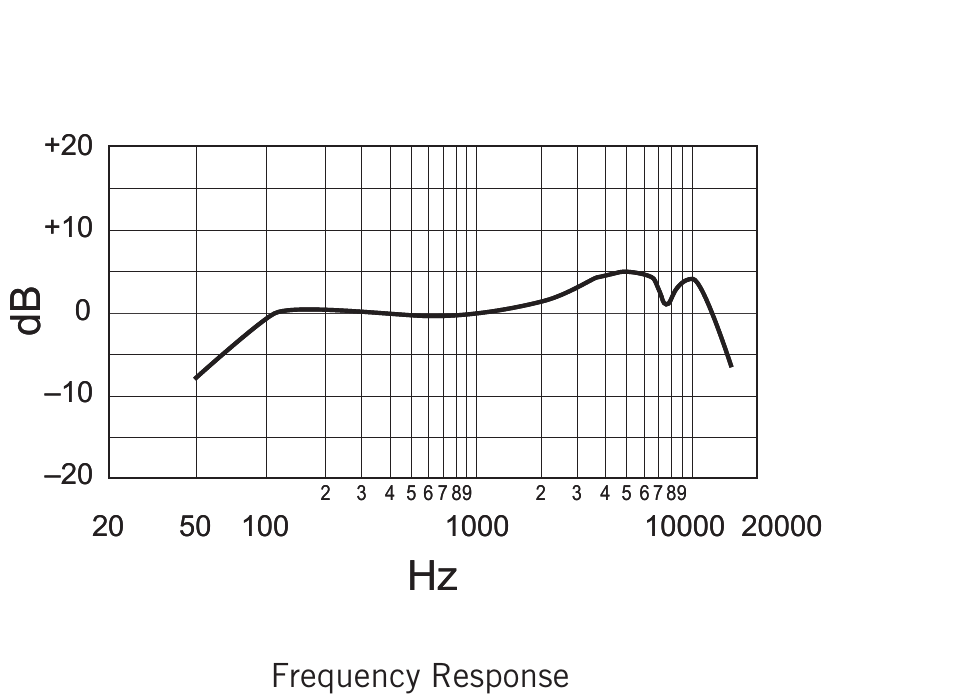
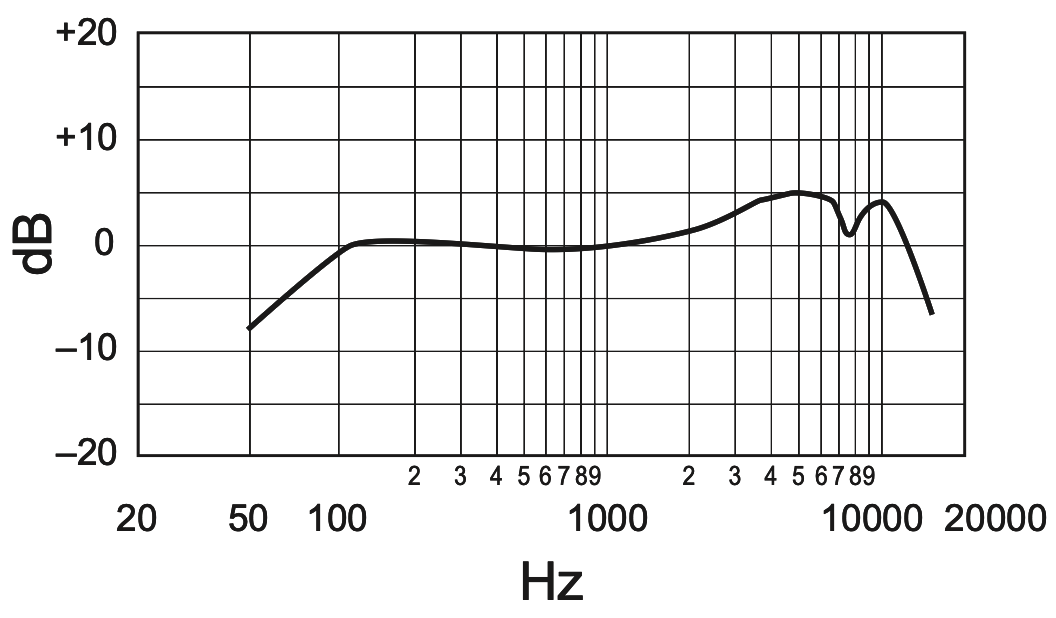
Mon Wk 6 reading section 2.2: swap to Ines's tighter spec-sheet crops
Replaces the three spec-sheet images with cleaner crops provided by
Ines (no logo bleed, tighter framing, slightly larger source):

  sm57-polar-pattern.png       (was 1300x700, now 1454x824)
  sm57-frequency-response.png  (was 980x700, now 1026x530)
  sm58-frequency-response.png  (was 980x700, now 1056x618)

All three are converted from the uploaded .tiff source to optimized
PNG for web.

Two prose updates that follow from the cleaner polar plot:

1. The dB number for the side-of-mic pickup. The original walkthrough
   said the side curve sits at '-5 to -6 dB.' Looking at the actual
   curves more carefully (which the new tighter crop makes easier
   to read), the side response sits between -5 and -10 dB depending
   on frequency. Updated the prose to reflect that range honestly,
   and softened 'about half as loud' to 'a third to half as loud.'

2. Polar pattern figure caption and alt text updated to reflect that
   SM57 and SM58 share the same cardioid pattern. Was:
     'SM57 polar pattern'
   Now:
     'Cardioid polar pattern (SM57 and SM58 share this pattern)'
   The image is still sourced from the SM57 spec sheet (attribution
   line unchanged), but the caption now matches what the prose
   already established: both mics in the lab use this pattern.
   Also tightened 'Reading the SM57 plot above' to 'Reading the plot
   above' in the body paragraph for consistency.

diff --git a/module-03-recording/lessons/01-reading-recording-chain.html b/module-03-recording/lessons/01-reading-recording-chain.html
@@ -261,13 +261,13 @@
 
 <figure>
   <img src="../../assets/images/module-03-week-06/sm57-polar-pattern.png"
-       alt="The Shure SM57 polar pattern from the official spec sheet. Two polar plots are shown side by side: the left one shows curves for 125 Hz, 500 Hz, and 1000 Hz; the right one shows curves for 2000 Hz, 4000 Hz, and 8000 Hz. All curves trace a heart-shaped cardioid pattern, full at 0 degrees in front, narrowing through the sides, and pinching toward zero at 180 degrees behind."
+       alt="The cardioid polar pattern as published in the SM57 spec sheet. Two polar plots are shown side by side: the left one shows curves for 125 Hz, 500 Hz, and 1000 Hz; the right one shows curves for 2000 Hz, 4000 Hz, and 8000 Hz. All curves trace a heart-shaped pattern, full at 0 degrees in front, narrowing through the sides, and pinching toward zero at 180 degrees behind."
        style="max-width: 100%; height: auto;">
-  <figcaption>SM57 polar pattern</figcaption>
+  <figcaption>Cardioid polar pattern (SM57 and SM58 share this pattern)</figcaption>
   <div class="photo-attribution">Source: Shure SM57 product spec sheet, ©2009 Shure Incorporated</div>
 </figure>
 
-<p>The curve traced on the chart is what the mic actually does. Reading the SM57 plot above: at 0° (directly in front), the curve sits at the outermost ring, which means the mic is most sensitive there. That's full pickup. As you move around toward 90° (the side of the mic), the curve pulls inward to about the -5 to -6 dB ring, which means the side of the mic picks up sound less strongly than the front does (about half as loud, roughly). Keep going around to 180° (directly behind the mic) and the curve pinches almost to the center: at -20 dB or beyond, the rear of the mic is barely picking up anything at all. This shape, full in front, reduced at the sides, near-zero behind, is what <strong>cardioid</strong> means. The shape resembles a heart, which is where the name comes from.</p>
+<p>The curve traced on the chart is what the mic actually does. Reading the plot above: at 0° (directly in front), the curve sits at the outermost ring, which means the mic is most sensitive there. That's full pickup. As you move around toward 90° (the side of the mic), the curve pulls inward, landing somewhere between the -5 and -10 dB rings depending on frequency. The side of the mic picks up sound, but less strongly than the front does (about a third to half as loud, roughly). Keep going around to 180° (directly behind the mic) and the curve pinches almost to the center: at -20 dB or beyond, the rear of the mic is barely picking up anything at all. This shape, full in front, reduced at the sides, near-zero behind, is what <strong>cardioid</strong> means. The shape resembles a heart, which is where the name comes from.</p>
 
 <p>You'll notice the chart actually shows several curves at once, one for each frequency the manufacturer measured (125, 500, 1000, 2000, 4000, 8000 Hz). The shape isn't perfectly identical at every frequency: at very low frequencies the mic picks up a bit more from the rear than it does at mid frequencies; at very high frequencies the pattern can get a little narrower in front. But all of these curves are recognizably the same cardioid shape. For our purposes, "cardioid" is the right name for what this mic does at any frequency you'd care about.</p>
 